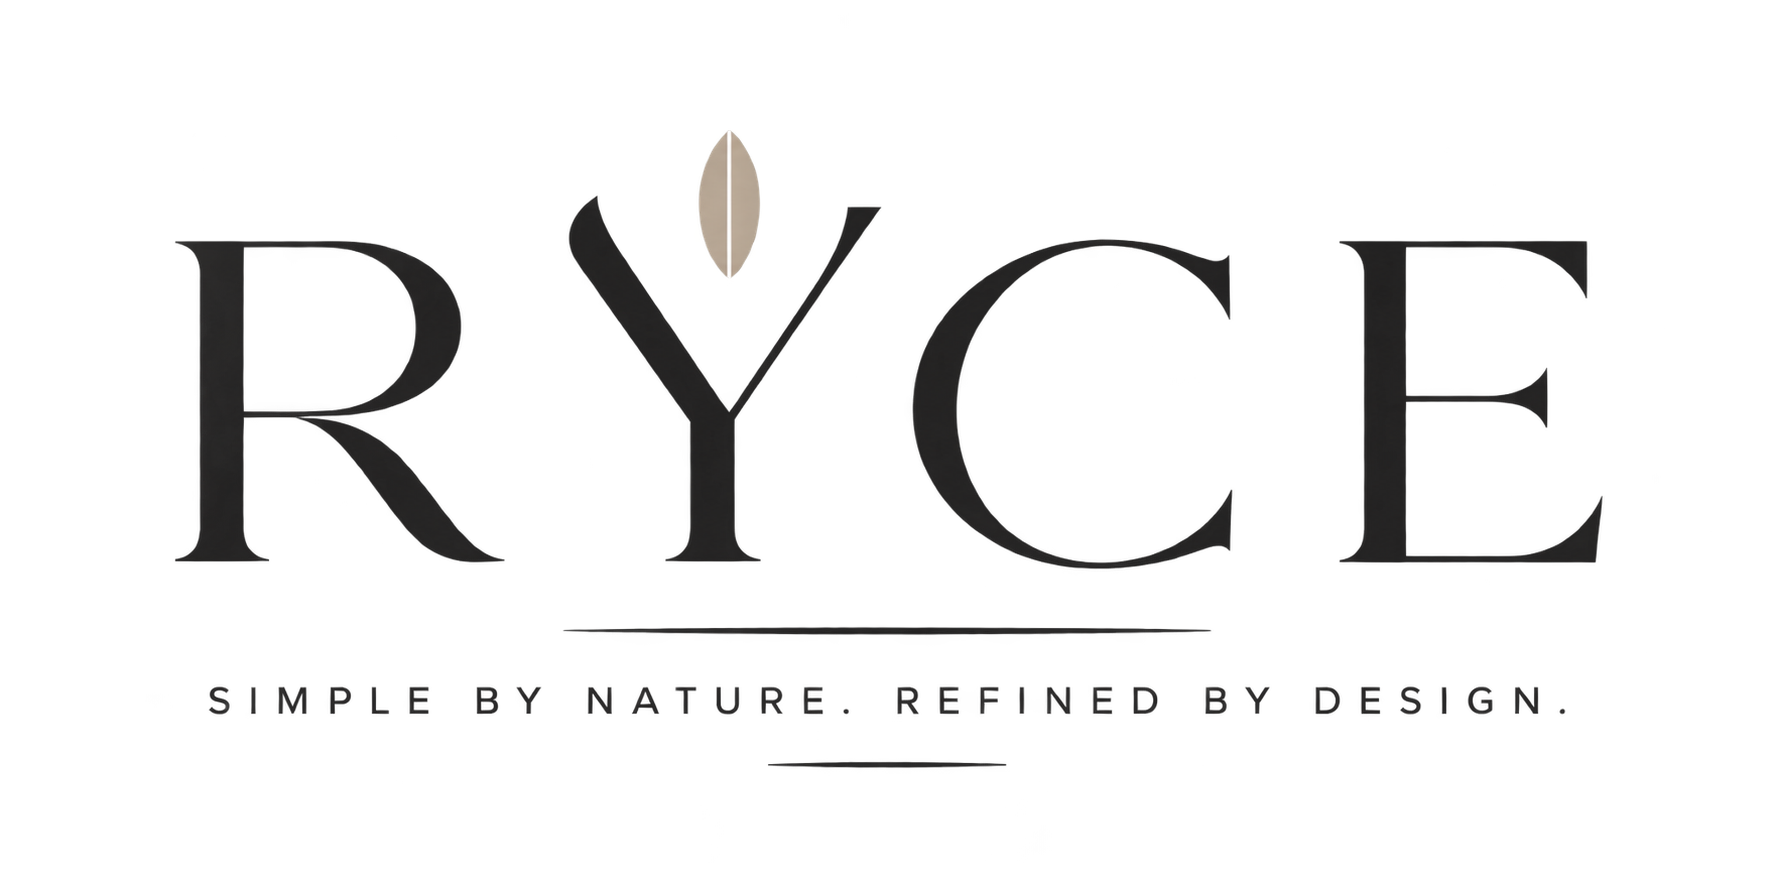
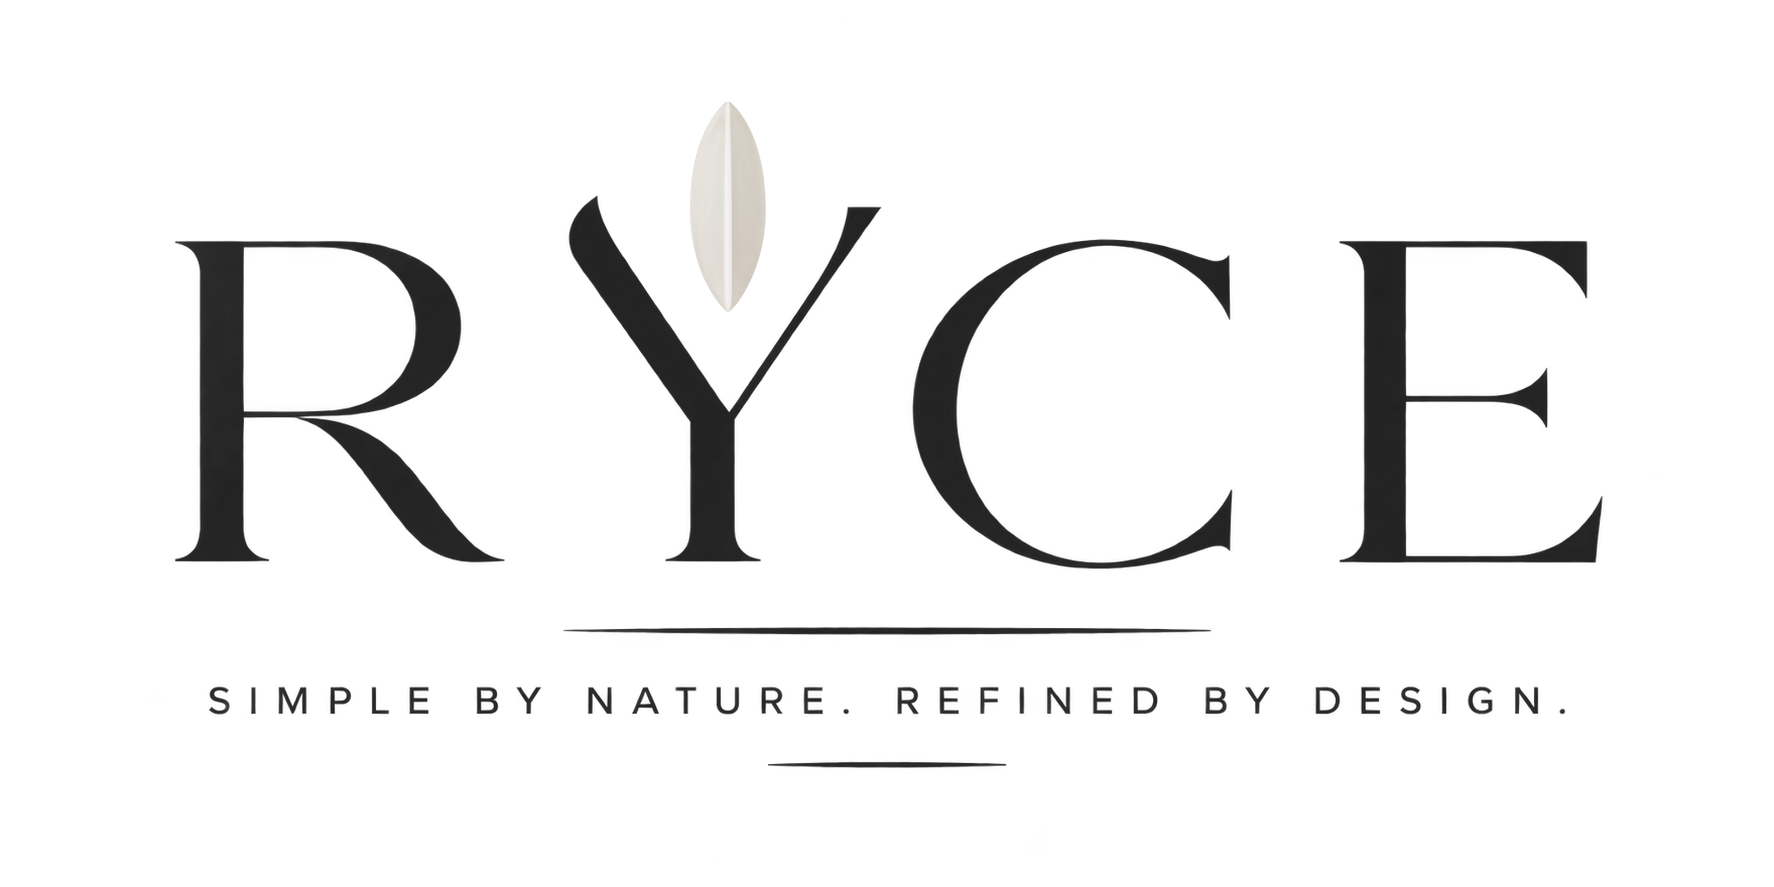
fix for headings and other pictures

Changed region(s): [[0.372, 0.1218, 0.434, 0.3653]]

diff --git a/src/app/components/Footer.tsx b/src/app/components/Footer.tsx
@@ -17,7 +17,7 @@ export default function Footer() {
           <a href="https://www.tiktok.com/@ryce.np?_r=1&_t=ZS-99pLf3VqN8B" target="_blank" rel="noopener noreferrer" aria-label="RYCE on TikTok" className="!text-[var(--text-secondary)] hover:!text-[var(--text-primary)] !no-underline transition-colors text-lg">
             <i className="bi bi-tiktok" />
           </a>
-          <a href="https://wa.me/9779808968520" target="_blank" rel="noopener noreferrer" aria-label="RYCE on WhatsApp" className="!text-[var(--text-secondary)] hover:!text-[var(--text-primary)] !no-underline transition-colors text-lg">
+          <a href="https://wa.me/9779714628587" target="_blank" rel="noopener noreferrer" aria-label="RYCE on WhatsApp" className="!text-[var(--text-secondary)] hover:!text-[var(--text-primary)] !no-underline transition-colors text-lg">
             <i className="bi bi-whatsapp" />
           </a>
         </div>

diff --git a/src/app/shop/shop-data.ts b/src/app/shop/shop-data.ts
@@ -49,7 +49,9 @@ export const products: Product[] = [
       '/assets/images/MORE1.png', 
       '/assets/images/MORE2.png',   
       '/assets/images/MORE3.png',
-      '/assets/images/SIZE-CHART2.jpeg',
+      '/assets/images/FRONTGREY.png',
+    '/assets/images/BACK-IMAGE-GREY.jpeg',
+    '/assets/images/SIZE-CHART2.jpeg',
 
 
     ],
@@ -67,7 +69,7 @@ export const products: Product[] = [
     ],
     description: 'Relaxed pleated pants designed for everyday wear. A wide silhouette with a clean drape.',
     details:     '65% Polyester | 35% Viscose.',
-    care:        'Machine wash cold. Do not bleach. Line dry in shade. Low iron if needed.',
+    care:        'Iron after washing to maintain the pleats. Do not bleach.',
     sizeChart: '/assets/images/SIZE-CHART.png',
   },
 

diff --git a/src/app/components/TopBar.tsx b/src/app/components/TopBar.tsx
@@ -7,9 +7,11 @@ import './topBar.css';
 import SearchOverlay from './SearchOverlay';
 import { useCart } from '../context/CartContext';
 
-const leftLinks = [
+  const leftLinks = [
+  { label: 'Home', href: '/' },
   { label: 'Shop', href: '/shop' },
 ];
+
 
 const rightLinks: { label: string; href: string }[] = [];
 
@@ -59,10 +61,10 @@ export default function Topbar() {
 
     <Link href="/" className="header-logo" aria-label="RYCE — home">
   <Image
-    src="/assets/images/transparent.png"
+    src="/assets/images/newtr.png"
     alt="RYCE"
     width={155}
-    height={78}
+    height={54}
     priority
   />
 </Link>

diff --git a/src/app/components/topBar.css b/src/app/components/topBar.css
@@ -82,22 +82,20 @@
 /* =========================
    LOGO
    ========================= */
-
 .header-logo {
   display: flex;
   align-items: center;
   justify-content: center;
-
   width: 180px;
   height: 100%;
-
   text-decoration: none !important;
 }
 
 .header-logo img {
   display: block;
-  width: 155px;
-  height: auto;
+  height: 70%;        /* fits inside header-height, never grows the row */
+  width: auto;         /* scales proportionally from the height */
+  max-width: 155px;    /* still won't get too wide */
   object-fit: contain;
 }
 
